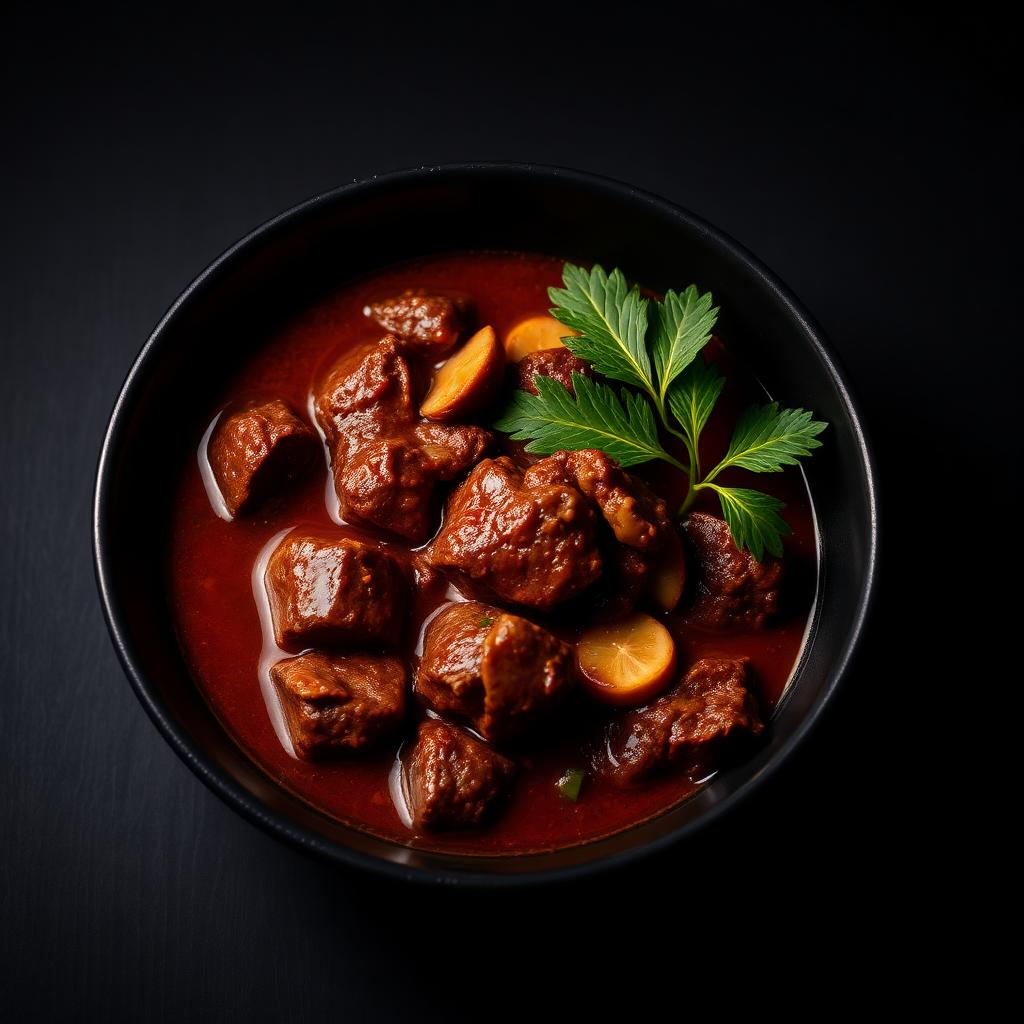
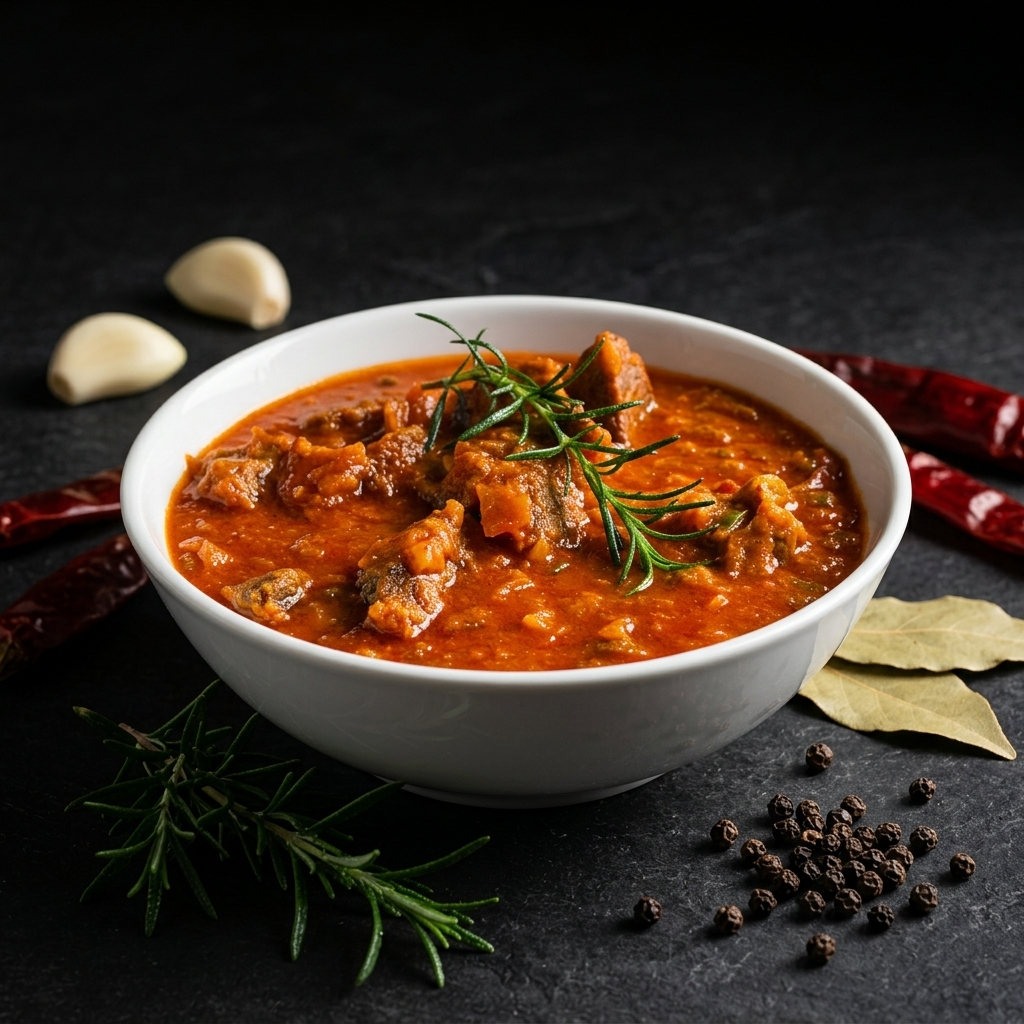
Sync menu data with menu-data.json (est, subtitle)

diff --git a/src/data/menu.ts b/src/data/menu.ts
@@ -37,11 +37,9 @@ export interface MenuSection {
 
 export const restaurantInfo = {
   name: "TANIA'S",
-  subtitle: "Cuisine & Lounge",
+  subtitle: "Food & Coffee",
   tagline: "A Culinary Journey of African Flavors",
-  est: "2018",
-  parent: { name: "Tany's Ltd", est: "2018" },
-  launched: "February 2020",
+  est: "2026",
   address: "M&M Plaza, Gishushu, Kigali",
   phone: "[phone redacted]",
   currency: "FRW",